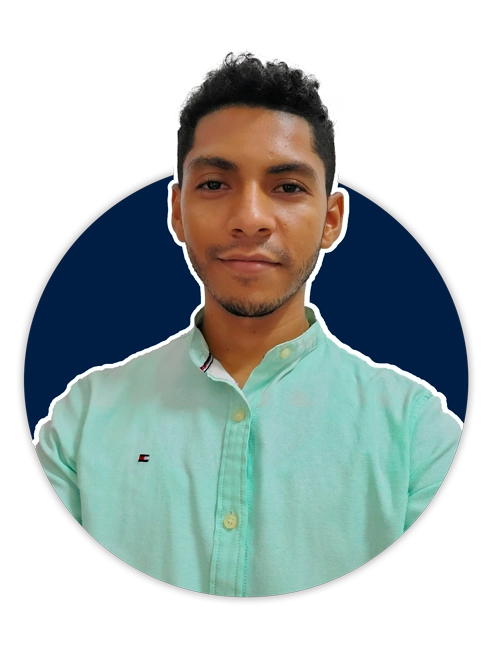
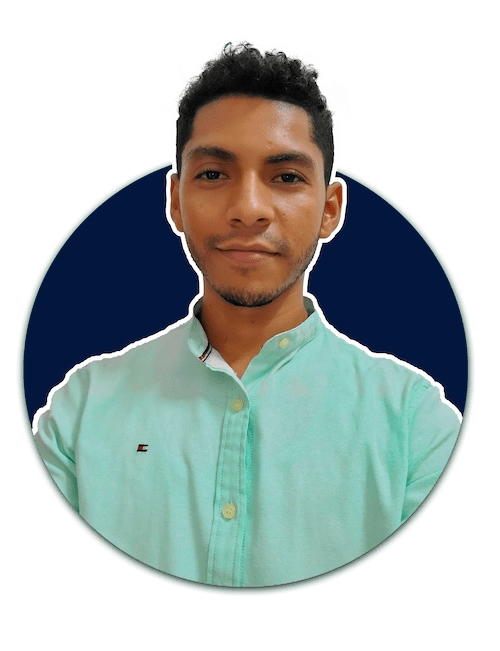
mejorando estilos

diff --git a/src/components/sections/presentation/Presentation.tsx b/src/components/sections/presentation/Presentation.tsx
@@ -4,8 +4,8 @@ import { DownloadIcon } from '@assets/¨icons/DownloadIcon'
 export function Presentation (): JSX.Element {
   const photoProfileTheme = (): string => {
     const { isDark } = useContext(ThemeContext)
-    if (isDark) return '/src/assets/images/profileDark.webp'
-    return '/src/assets/images/profileLight.webp'
+    if (isDark) return '/src/assets/images/profileLight.webp'
+    return '/src/assets/images/profileDark.webp'
   }
 
   return (
@@ -21,7 +21,10 @@ export function Presentation (): JSX.Element {
             Desarrollador de aplicaciones, con más de 1 año de experiencia enfocado en tecnologías Web.<br />
             <a className='text-info' href='#'>Acerca de mí</a>
           </p>
-          <a href='#' className='prose text-lg btn decoration-transparent rounded-full mt-12 shadow-xl btn-info capitalize text-secondary mx-2'>
+          <a
+            href='#' className='prose btn btn-info text-lg decoration-transparent hover:bg-info-content
+            rounded-full mt-12 shadow-xl shadow-cyan-600/40 capitalize text-secondary mx-2'
+          >
             <DownloadIcon />
             Descargar CV
           </a>

diff --git a/tailwind.config.js b/tailwind.config.js
@@ -35,6 +35,7 @@ export default {
           'secondary-content': '#edf1ff',
           'secondary-focus': '#1f2c55',
           info: '#01bebe',
+          'info-content': '#02a5a5',
           'font-size': '16px',
           white: '#cfd7f1',
           neutral: '#3d4451',
@@ -46,6 +47,7 @@ export default {
           'secondary-content': '#131d3f',
           'secondary-focus': '#e1e9f0',
           info: '#01bebe',
+          'info-content': '#02a5a5',
           'font-size': '16px',
           white: '#cfd7f1',
           neutral: '#3d4451',

diff --git a/src/assets/icons/DownloadIcon.tsx b/src/assets/icons/DownloadIcon.tsx
@@ -1,5 +1,5 @@
 export const DownloadIcon = (): JSX.Element => (
-  <svg className='w-6 h-6' xmlns='http://www.w3.org/2000/svg' fill='none' viewBox='0 0 24 24' strokeWidth='1.5' stroke='currentColor'>
+  <svg className='w-5 h-5' xmlns='http://www.w3.org/2000/svg' fill='none' viewBox='0 0 24 24' strokeWidth='1.5' stroke='currentColor'>
     <path strokeLinecap='round' strokeLinejoin='round' d='M3 16.5v2.25A2.25 2.25 0 005.25 21h13.5A2.25 2.25 0 0021 18.75V16.5M16.5 12L12 16.5m0 0L7.5 12m4.5 4.5V3' />
   </svg>
 )
